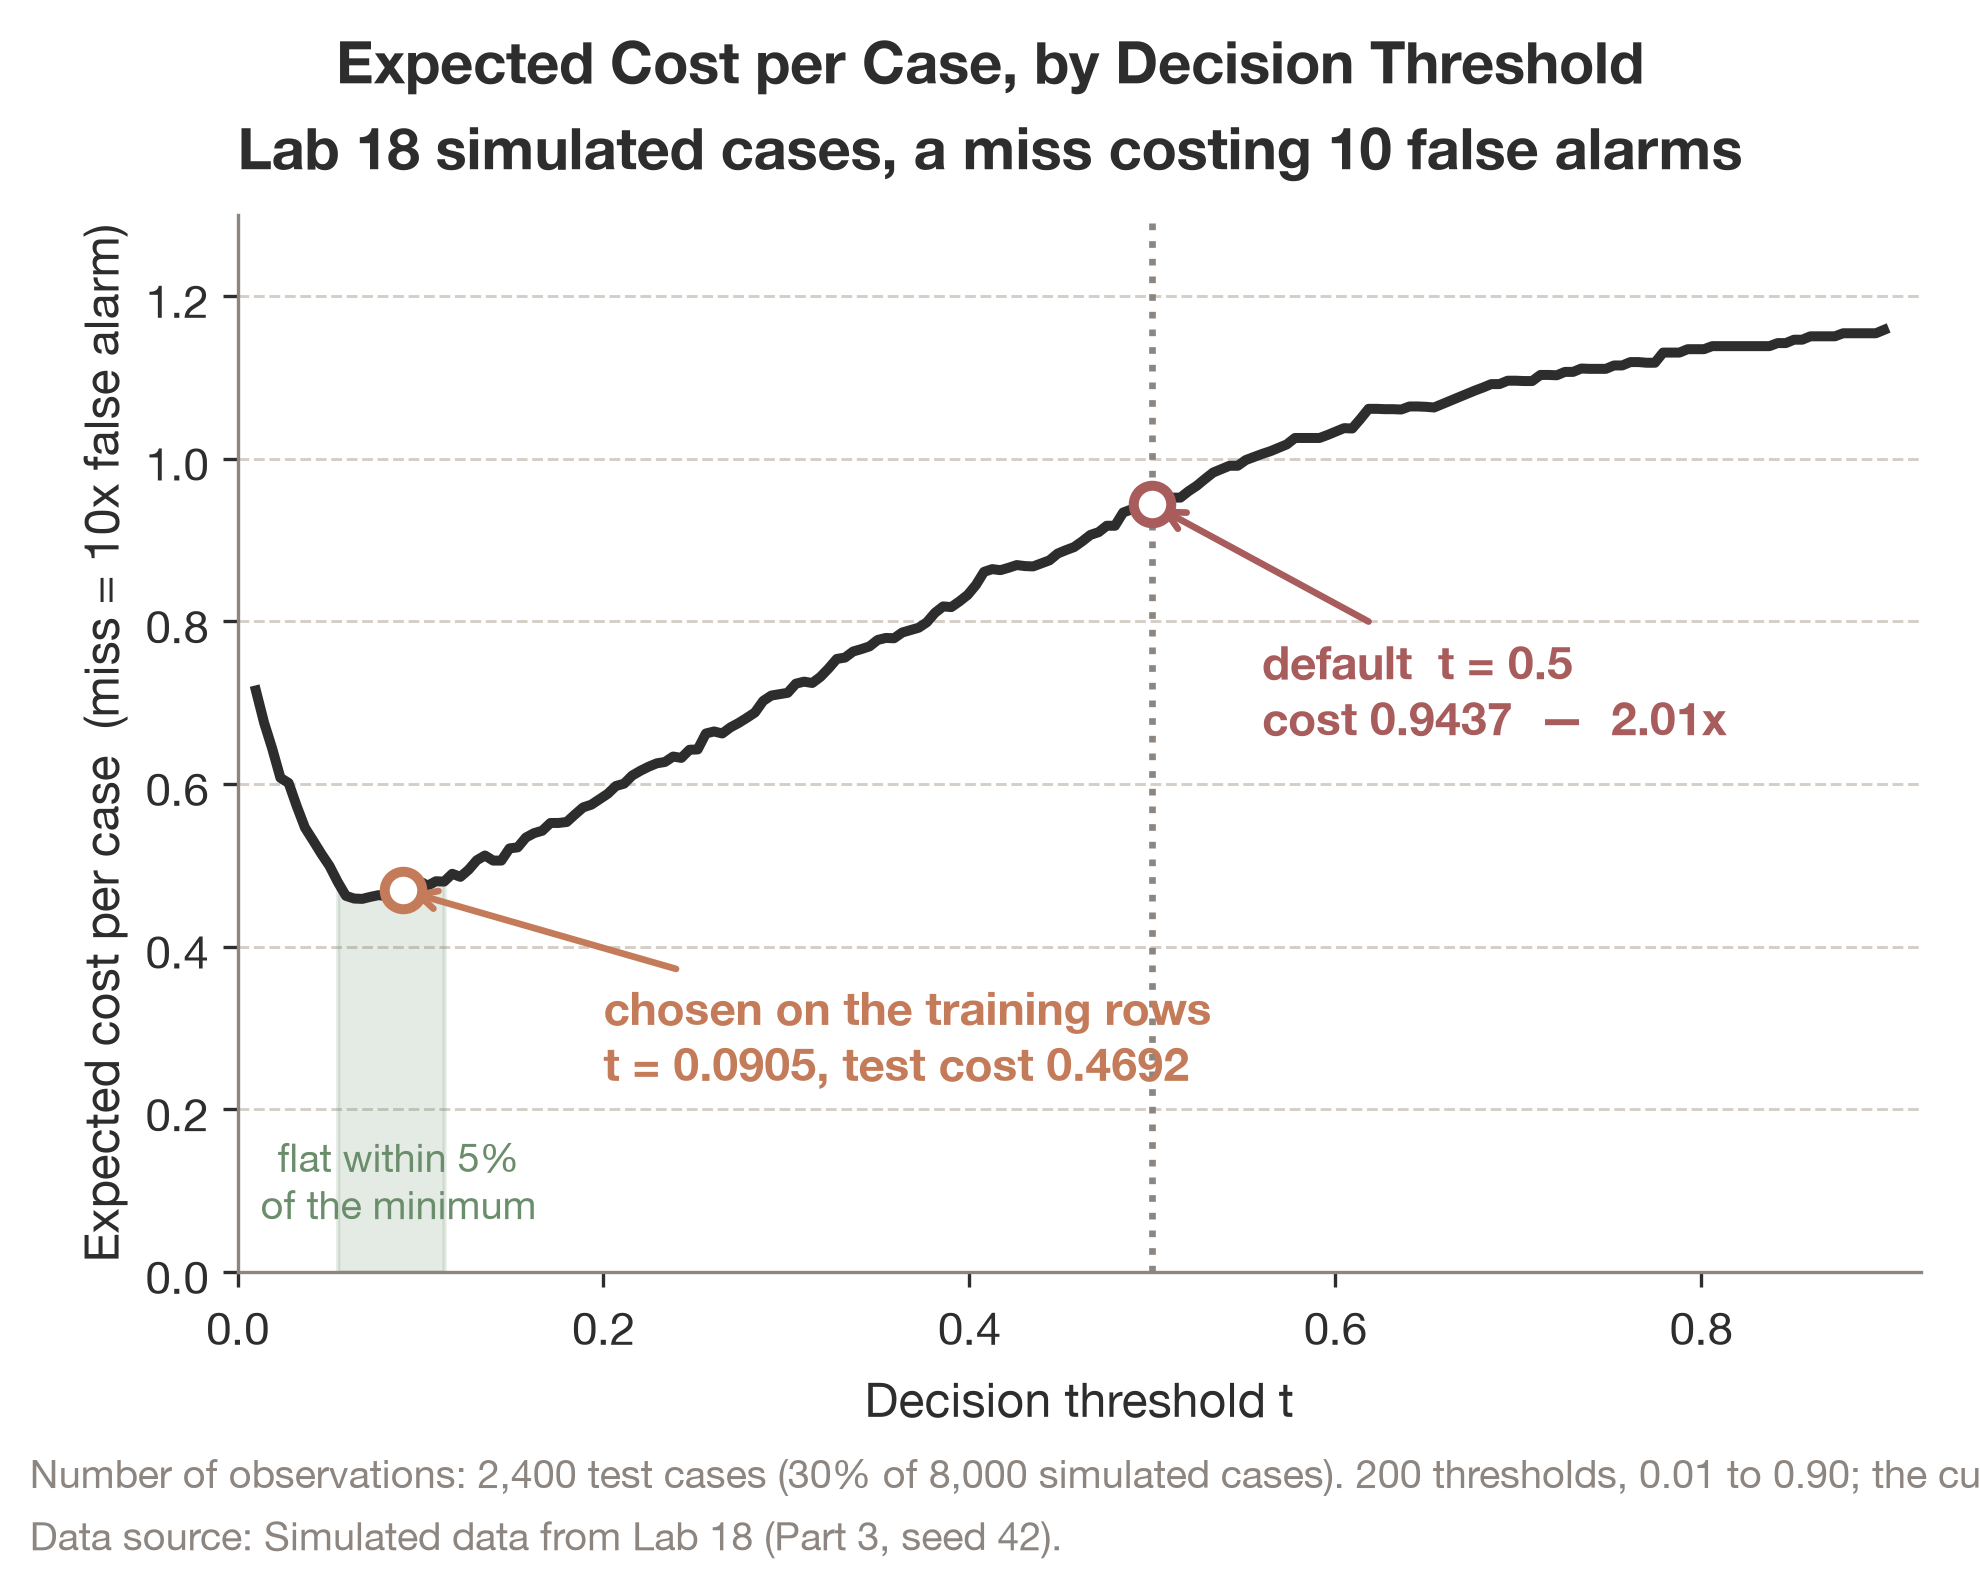
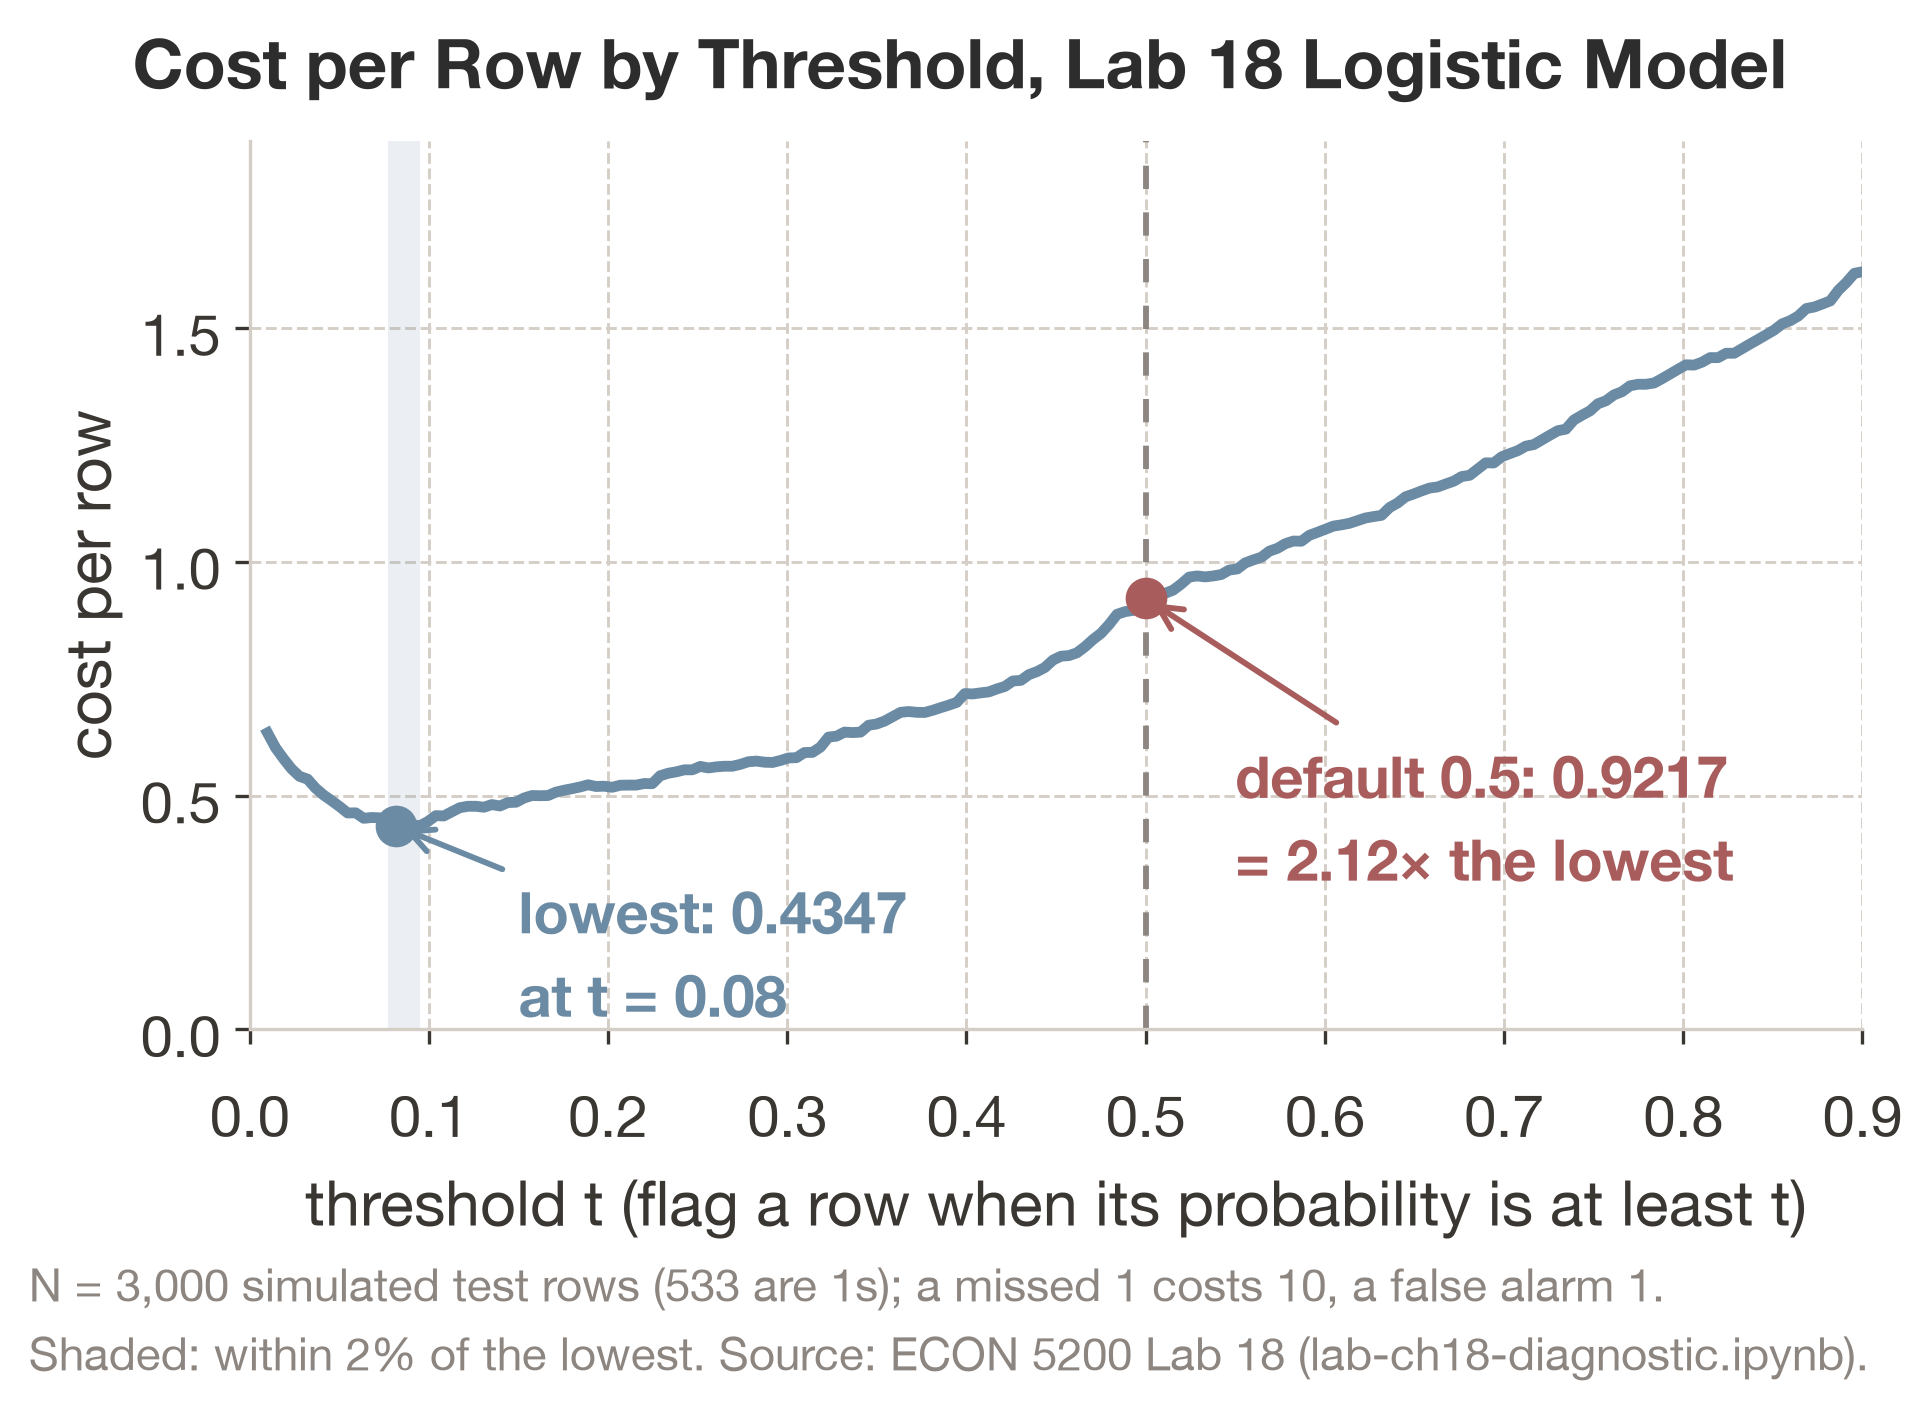
T18: lab cost curve from 5200 Lab 18

diff --git a/ch18-model-evaluation/index.html b/ch18-model-evaluation/index.html
@@ -1,7 +1,7 @@
 <!doctype html>
 <html lang="en">
 <head>
-<meta name="deck-build" content="public; speaker notes removed by strip_notes.py; out=c88e6a5da8bbd2d56cfde1ec3f45badd">
+<meta name="deck-build" content="public; speaker notes removed by strip_notes.py; out=08e573bd8b934b0f5d5d2dbdfa5e32f0">
   <meta charset="utf-8">
   <meta name="viewport" content="width=device-width, initial-scale=1.0">
   <title>Model Evaluation: Metrics That Matter</title>
@@ -729,17 +729,17 @@ pd.DataFrame({<span class="t-str">"months"</span>: g.size(),
       <div class="content">
         <p style="font-size: 14pt; color: var(--secondary-color); margin: 0 0 8px;"><i class="fa-solid fa-circle-question"></i> How expensive is the default cutoff on Lab 18's data?</p>
         <div style="display: grid; grid-template-columns: 56% 44%; gap: 18px; align-items: center;">
-          <img class="figure" src="figures/figure_007_cost_curve.png" alt="Expected cost per case against threshold on Lab 18 test rows: the threshold chosen on the training rows, 0.0905, costs 0.4692, against 0.9437 at the default of 0.5" style="width: 100%; max-height: 340px; object-fit: contain;">
+          <img class="figure" src="figures/figure_007_cost_curve.png" alt="Cost per row against the threshold for Lab 18's logistic model on its 3,000 test rows, a missed 1 costing 10 and a false alarm 1: lowest 0.4347 at t = 0.08, and 0.9217 at the default of 0.5" style="width: 100%; height: auto; display: block;">
           <div>
-            <div class="mock colab mathjax_ignore tex2jax_ignore" style="--mk-size: 10.5pt;"><div class="mk-cell"><div class="mk-gut"><div class="mk-run"></div></div><div class="mk-body"><pre class="mk-code"><code><span class="t-com"># Lab 18 Step 8: choose on the training rows, price once on the test rows</span></code></pre><div class="mk-out mk-mono" style="display: block;"><pre>threshold chosen on the training rows: 0.0905
-its cost per case on the test rows   : 0.4692
-cost at the default 0.5 (test rows)  : 0.9437
-closed form 0.0909 (test rows)       : 0.4683</pre></div></div></div></div>
-            <p style="font-size: 14pt; line-height: 1.5; margin-top: 12px;">A simulated imbalanced problem where a <strong>miss costs ten times a false alarm</strong>.</p>
-            <p style="font-size: 15pt; line-height: 1.5; margin-top: 10px; color: var(--danger-color);"><strong>Shipping the default costs 2.01&times; as much.</strong></p>
+            <p style="font-size: 14pt; line-height: 1.5; margin: 0;">Lab 18's <strong>3,000 test rows</strong>, 533 of them 1s. A <strong>missed 1 costs ten times a false alarm</strong>. The logistic model, scored with the lab's <code>cost_per_row</code>:</p>
+            <div style="display: grid; grid-template-columns: auto 1fr; gap: 6px 14px; align-items: baseline; margin-top: 12px; font-size: 15pt;">
+              <span style="font-weight: 700; color: var(--secondary-color);">0.4347</span><span style="font-size: 14pt;">per row, the lowest, at <em>t</em> &asymp; 0.08</span>
+              <span style="font-weight: 700; color: var(--danger-color);">0.9217</span><span style="font-size: 14pt;">per row at the default, 0.5</span>
+            </div>
+            <p style="font-size: 15pt; line-height: 1.5; margin-top: 12px; color: var(--danger-color);"><strong>Shipping the default costs 2.12&times; as much.</strong></p>
           </div>
         </div>
-        <p style="font-size: 14.5pt; margin-top: 8px;">Two lessons. The cheap cutoff is <strong>nowhere near 0.5</strong>: a 10:1 ratio puts Chapter 17's formula at \(1/11 \approx 0.091\), and the training rows choose 0.0905. And the curve is a <strong>lopsided V</strong>: cheap near 0.05&ndash;0.12, then rising steadily all the way to 0.5.</p>
+        <p style="font-size: 14.5pt; margin-top: 8px;">Two lessons. The cheap cutoff is <strong>nowhere near 0.5</strong>: with a miss ten times a false alarm, it sits near 0.08. And the bottom is <strong>flat</strong>: anything from 0.077 to 0.095 is within 2% of the lowest, while the cost climbs steadily past it.</p>
       </div>
     </section>
 
